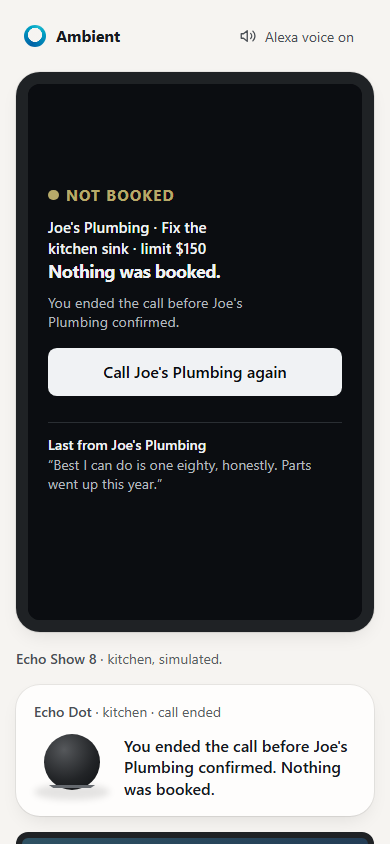
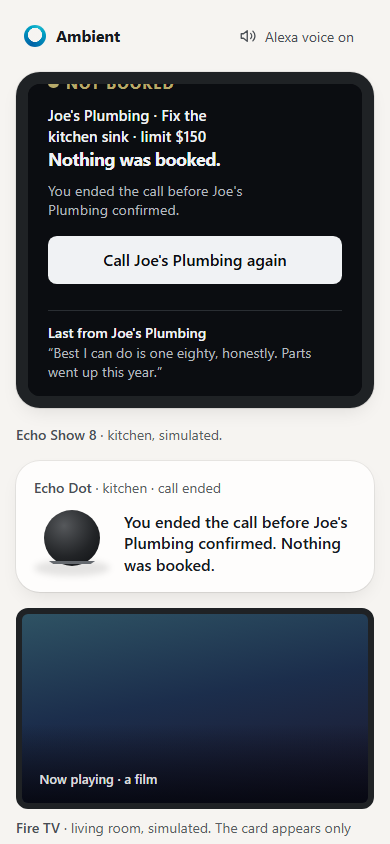
Fix the doubled period, steady the Dot card, and keep Decline's sub-label on phones
The outcome reason no longer ends in two periods. A late status reply no
longer overwrites the Dot's short booked caption, so the card keeps one
height on every path. The Decline sub-label stays visible at 340px and
below, and the ended phase on phones sizes the Show card and call panel
to their content. The demo GIF is re-encoded without dither.

diff --git a/web/sim/index.html b/web/sim/index.html
@@ -186,6 +186,8 @@ body[data-phase="needs"] .tv .devlabel{visibility:hidden}
   .call{min-height:72vh}
   .room{grid-template-columns:1fr}
   .show8{min-height:560px;aspect-ratio:auto}
+  body[data-phase="ended"] .show8{min-height:0;height:336px}
+  body[data-phase="ended"] .call{min-height:0}
   .kitchen{min-height:auto}
   body[data-phase="needs"] .kitchen,body[data-phase="ended"] .kitchen{order:-1}
   body[data-phase="needs"] .dot{display:none}
@@ -363,7 +365,7 @@ function render() {
     out.classList.toggle("caveat", undated || !ok);
     out.classList.toggle("open", undated);
     $("outcomeLabel").textContent = ok ? (undated ? "Booked · date still open" : `Confirmed by ${biz}`) : t.status === "cancelled" ? "Not booked" : o.kind === "unconfirmed" ? "Not booked" : o.kind === "declined" ? "They declined" : "No deal";
-    $("outcomeText").textContent = undated ? caveat : ok ? o.summary :t.status === "cancelled" ? `You ended the call before ${biz} confirmed.` : `${sentence(o.reason)}.`;
+    $("outcomeText").textContent = undated ? caveat : ok ? o.summary :t.status === "cancelled" ? `You ended the call before ${biz} confirmed.` : `${sentence(o.reason).replace(/\.+$/, "")}.`;
     const line = ok ? `Booked. ${sentence(o.when ?? "")}${o.amountUsd !== undefined ? `, ${usd(o.amountUsd)}` : ""}.${undated ? " The date is still open." : ""}` : "Nothing was booked.";
     if (line !== state.lastOutcome) { state.lastOutcome = line; if (ok) chime(); speak(line); }
   } else out.className = "outcome";
@@ -400,7 +402,8 @@ async function decide(decision) {
     const answered = await fetch("/sim/api/elicit", { method: "POST", headers: { "content-type": "application/json" }, body: JSON.stringify({ id, decision: decision === "deny" ? "deny" : "approve_once" }) });
     if (answered.ok) { speak(decision === "deny" ? "Okay, I'll tell them no." : "Okay, I'll book it."); return; }
   }
-  speak((await tool("approve", { decision })).speech);
+  const r = await tool("approve", { decision });
+  if (!state.lastOutcome) speak(r.speech);
 }
 $("statusBtn").onclick = async () => speak((await tool("status")).speech);
 $("again").onclick = () => startCall(DEMO_TASK);
@@ -478,7 +481,7 @@ addEventListener("message", async e => {
     if (name === "approve" && state.elicitId) { await decide(args.decision === "deny" ? "deny" : "once"); reply({ content: [] }); return; }
     if (name === "delegate" && args.newConversation) { startCall(args.task); reply({ content: [] }); return; }
     const r = await tool(name, args);
-    if (r.speech) speak(r.speech);
+    if (r.speech && !state.lastOutcome) speak(r.speech);
     reply({ content: [{ type: "text", text: r.speech ?? "" }], structuredContent: r.structuredContent ?? {}, isError: r.isError === true });
     return;
   }

diff --git a/src/task-view.ts b/src/task-view.ts
@@ -99,7 +99,8 @@ body[data-device="tv"] .tvline{display:block}
 }
 @media (max-width:340px){
  body:not([data-device="tv"]) .stake.long{font-size:1.2em}
- body:not([data-device="tv"]) .actions button small{display:none}
+ body:not([data-device="tv"]) .actions button:not(.quiet) small{display:none}
+ body:not([data-device="tv"]) .actions button.quiet small{font-size:12px}
 }
 body.arrive{animation:arrive 240ms cubic-bezier(0.2,0,0,1) both}
 @keyframes arrive{0%{transform:scale(.98);opacity:.4}100%{transform:none;opacity:1}}
@@ -185,7 +186,7 @@ function render(d){
    if(!dated(o.when)){flag.className="flag date";flag.textContent=(/\\b(?:mon|tues|wednes|thurs|fri|satur|sun)day\\b/i.test(o.when||"")?"Only the weekday was given":"No date was given")+" \\u00b7 ask "+biz+" for the date";}}
   else{stake.textContent="Nothing was booked.";$("what").textContent=[biz,what,limitOf(t.instruction)].filter(Boolean).join(" \\u00b7 ");}
   const readBack=said.some(l=>l.who==="Ambient"&&/\\bIs that right\\?$/.test(l.text));
-  sub.textContent=ok?(theirs?(readBack?"Ambient read back the total and the time. "+biz+" said \\u201c"+theirs.text+"\\u201d":"In their words: \\u201c"+theirs.text+"\\u201d"):"Booked with "+biz+"."):t.status==="cancelled"?"You ended the call before "+biz+" confirmed.":cap(o.reason)+".";
+  sub.textContent=ok?(theirs?(readBack?"Ambient read back the total and the time. "+biz+" said \\u201c"+theirs.text+"\\u201d":"In their words: \\u201c"+theirs.text+"\\u201d"):"Booked with "+biz+"."):t.status==="cancelled"?"You ended the call before "+biz+" confirmed.":cap(o.reason).replace(/\\.+$/,"")+".";
   const mine=said.filter(l=>l.who!=="Ambient"&&l.who!==biz);
   if(ok)hint.textContent=mine.some(l=>/^Approved: /.test(l.text))?"You approved this price from home.":mine.some(l=>/^offer\\b/i.test(l.text))?"You offered this price from home.":limitOf(t.instruction)?"Within your "+limitOf(t.instruction).slice(6)+" limit.":"";
   if(!ok){if(theirs)foot([{who:"Last from "+biz,text:"\\u201c"+esc(theirs.text)+"\\u201d"}]);

diff --git a/scripts/record-sim.py b/scripts/record-sim.py
@@ -66,7 +66,7 @@ async def record(video_dir):
 
 def convert(video, gif):
     gif.parent.mkdir(parents=True, exist_ok=True)
-    filters = f"fps={FPS},scale={WIDTH}:-1:flags=lanczos,split[a][b];[a]palettegen=max_colors=96:stats_mode=diff[p];[b][p]paletteuse=dither=bayer:bayer_scale=5:diff_mode=rectangle"
+    filters = f"fps={FPS},scale={WIDTH}:-1:flags=lanczos,split[a][b];[a]palettegen=max_colors=192:stats_mode=diff[p];[b][p]paletteuse=dither=none:diff_mode=rectangle"
     subprocess.run(["ffmpeg", "-y", "-loglevel", "error", "-i", str(video), "-vf", filters, "-loop", "0", str(gif)], check=True)
 
 
